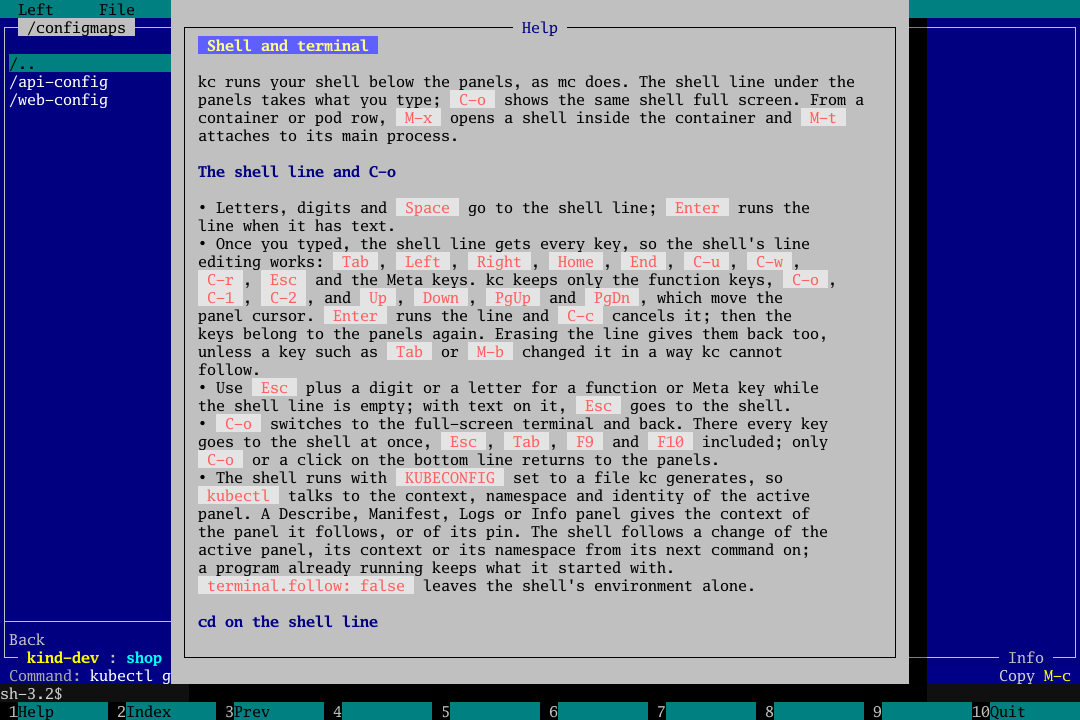
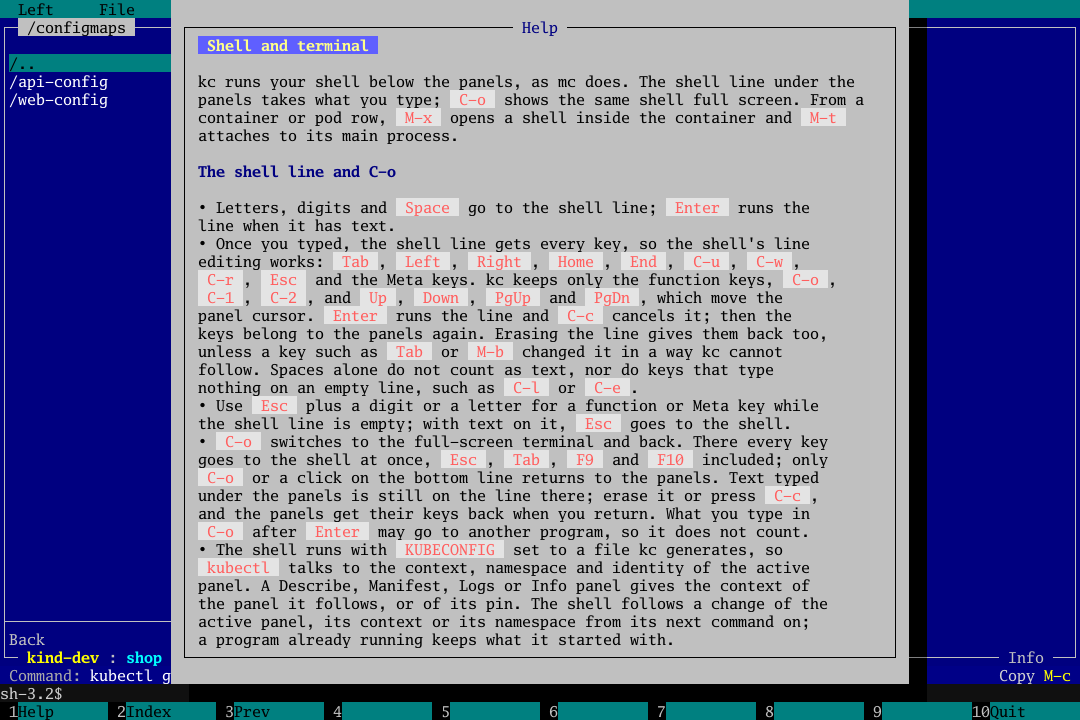
Keep a shell line that looks empty from taking the keys (#398)
Follow-up to #397 (issue #376).

## Problem

Since #397 a typed shell line takes every key except the function keys,
`C-o`, `Up`, `Down`, `PgUp` and `PgDn`. kc counts a line as typed when
it knows the line holds text, and also when it cannot follow the line
since the last `Enter` or `C-c`. Before #397 that second case only moved
`Enter`, `Left`, `Right`, `C-a`, `C-e` and `+ - *` to the shell. Now it
moves almost every key there, and two common paths reach it while the
prompt looks empty:

- On an empty line, any key that is not a panel key and not plain text
makes the line unknown. `C-l` (clear screen) and `C-e` are examples.
After that, `Tab`, `Insert`, `Home`, `End`, the Esc prefix and every
Meta key went to the shell until `Enter` or `C-c`. A lone `Space` did
the same, with only a blank on the line.
- Type `ls` at the panels, press `C-o`, erase it with `C-u` (or cancel
it with `C-c`), and press `C-o` again. In `C-o` kc marked the line
unknown on every key except `Enter` and kept the typed flag, so back at
the panels `Tab` went to the shell on an empty line. The same happened
after running a program in `C-o`, for example `Enter`, then `less`, then
`q`.

## What changed

- On an empty line, `C-a`, `C-b`, `C-d`, `C-e`, `C-f`, `C-g`, `C-k` and
`C-l` keep the line known and empty (`shellLine.key`,
`leavesLineEmpty`).
- A line of spaces counts as empty (`Terminal.HasInput`).
- In `C-o`, kc follows text typed under the panels the same way it does
[…]

Changed region(s): [[0.1833, 0.4889, 0.7639, 0.9167]]

diff --git a/internal/ui/shell_keys_test.go b/internal/ui/shell_keys_test.go
@@ -15,6 +15,7 @@ import (
 	"github.com/taigrr/bubbleterm"
 
 	"github.com/stokaro/kc/internal/models"
+	"github.com/stokaro/kc/pkg/appconfig"
 )
 
 // ptyInput records what kc writes to the shell's terminal. bubbleterm's
@@ -282,16 +283,41 @@ func TestTypedShellLineLeavesPanelKeys(t *testing.T) {
 		shell.take()
 		return app, shell
 	}
-	t.Run("Down moves the cursor", func(t *testing.T) {
+	down, up := tea.KeyPressMsg{Code: tea.KeyDown}, tea.KeyPressMsg{Code: tea.KeyUp}
+	pgDown, pgUp := tea.KeyPressMsg{Code: tea.KeyPgDown}, tea.KeyPressMsg{Code: tea.KeyPgUp}
+	for _, tc := range []struct {
+		name  string
+		setup []tea.KeyPressMsg
+		key   tea.KeyPressMsg
+	}{
+		{"Down moves the cursor", nil, down},
+		{"Up moves the cursor", []tea.KeyPressMsg{down}, up},
+		{"PgDn moves the cursor", nil, pgDown},
+		{"PgUp moves the cursor", []tea.KeyPressMsg{pgDown}, pgUp},
+	} {
+		t.Run(tc.name, func(t *testing.T) {
+			t.Parallel()
+			app, shell := typed(t)
+			pressKeys(app, tc.setup...)
+			before := app.leftPanel.currentSelectionID(t.Context())
+			pressKeys(app, tc.key)
+			if after := app.leftPanel.currentSelectionID(t.Context()); after == before {
+				t.Errorf("the cursor stayed on %q", after)
+			}
+			if got := shell.take(); got != "" {
+				t.Errorf("the shell read %q from the cursor keys", got)
+			}
+		})
+	}
+	t.Run("M-F1 opens the view options", func(t *testing.T) {
 		t.Parallel()
 		app, shell := typed(t)
-		before := app.leftPanel.currentSelectionID(t.Context())
-		pressKeys(app, tea.KeyPressMsg{Code: tea.KeyDown})
-		if after := app.leftPanel.currentSelectionID(t.Context()); after == before {
-			t.Errorf("the cursor stayed on %q", after)
+		pressKeys(app, tea.KeyPressMsg{Code: tea.KeyF1, Mod: tea.ModAlt})
+		if app.modalManager.TopName() == "" {
+			t.Error("no dialog opened")
 		}
 		if got := shell.take(); got != "" {
-			t.Errorf("the shell read %q from Down", got)
+			t.Errorf("the shell read %q from M-F1", got)
 		}
 	})
 	t.Run("F9 opens the menu bar", func(t *testing.T) {
@@ -344,5 +370,132 @@ func TestTypedShellLineLeavesPanelKeys(t *testing.T) {
 				t.Errorf("the shell read %q from Tab", got)
 			}
 		})
+	}
+}
+
+// Keys that put no text on an empty shell line leave it empty, so the
+// panels keep Tab; a blank line counts as empty too. Delete makes the line
+// count as typed: zsh with no binding types a "~" for it.
+func TestShellLineStaysEmptyAfterKeysThatAddNoText(t *testing.T) {
+	t.Parallel()
+	for _, tc := range []struct {
+		name      string
+		keys      []tea.KeyPressMsg
+		read      string
+		tabToPane bool
+	}{
+		{"C-l", []tea.KeyPressMsg{ctrlKey('l')}, "\f", true},
+		{"C-e C-k", []tea.KeyPressMsg{ctrlKey('e'), ctrlKey('k')}, "\x05\x0b", true},
+		{"Space", []tea.KeyPressMsg{{Code: tea.KeySpace, Text: " "}}, " ", true},
+		{"Delete", []tea.KeyPressMsg{{Code: tea.KeyDelete}}, "\x1b[3~", false},
+	} {
+		t.Run(tc.name, func(t *testing.T) {
+			t.Parallel()
+			app, shell := shellKeysApp(t)
+			pressKeys(app, tc.keys...)
+			if got := shell.take(); got != tc.read {
+				t.Fatalf("the shell read %q, want %q", got, tc.read)
+			}
+			active := app.activePanel
+			pressKeys(app, tabKey)
+			got := shell.take()
+			if tc.tabToPane && (app.activePanel == active || got != "") {
+				t.Errorf("Tab did not switch panels (shell read %q)", got)
+			}
+			if !tc.tabToPane && (app.activePanel != active || got != "\t") {
+				t.Errorf("Tab did not reach the shell (shell read %q)", got)
+			}
+		})
+	}
+}
+
+// Text typed under the panels is still on the shell line in the
+// full-screen terminal: C-u or C-c there empties it, and back at the
+// panels Tab switches panels again. After Enter in the full-screen
+// terminal the keys may go to another program, so they do not count as
+// typed text.
+func TestFullScreenTerminalEditsTheTypedShellLine(t *testing.T) {
+	t.Parallel()
+	for _, tc := range []struct {
+		name      string
+		input     []tea.Msg
+		line      string
+		known     bool
+		tabToPane bool
+	}{
+		{"C-u", []tea.Msg{ctrlKey('u')}, "", true, true},
+		{"C-c", []tea.Msg{ctrlKey('c')}, "", true, true},
+		{"Enter, then q to a program", []tea.Msg{tea.KeyPressMsg{Code: tea.KeyEnter}, textKey('q')}, "", false, true},
+		{"Enter, text, C-c", []tea.Msg{tea.KeyPressMsg{Code: tea.KeyEnter}, textKey('q'), ctrlKey('c')}, "", true, true},
+		{"more text", []tea.Msg{textKey('x')}, "lsx", true, false},
+		{"a paste", []tea.Msg{tea.PasteMsg{Content: " -l"}}, "ls -l", true, false},
+		{"Tab completion", []tea.Msg{tabKey}, "", false, false},
+	} {
+		t.Run(tc.name, func(t *testing.T) {
+			t.Parallel()
+			app, shell := shellKeysApp(t)
+			pressKeys(app, textKey('l'), textKey('s'), ctrlKey('o'))
+			for _, m := range tc.input {
+				app.Update(m)
+			}
+			pressKeys(app, ctrlKey('o'))
+			if app.showTerminal {
+				t.Fatal("C-o did not return to the panels")
+			}
+			if line, known := app.terminal.ShellLine(); line != tc.line || known != tc.known {
+				t.Errorf("shell line = %q, %v; want %q, %v", line, known, tc.line, tc.known)
+			}
+			shell.take()
+			active := app.activePanel
+			pressKeys(app, tabKey)
+			got := shell.take()
+			if tc.tabToPane && (app.activePanel == active || got != "") {
+				t.Errorf("Tab did not switch panels (shell read %q)", got)
+			}
+			if !tc.tabToPane && (app.activePanel != active || got != "\t") {
+				t.Errorf("Tab did not reach the shell (shell read %q)", got)
+			}
+		})
+	}
+}
+
+// An Esc pressed on an empty shell line and followed by a paste ends when
+// the shell line takes the next key, so a key after the line is erased is
+// text, not an Esc action.
+func TestShellLineKeyEndsEscPrefix(t *testing.T) {
+	t.Parallel()
+	app, shell := shellKeysApp(t)
+	app.Update(escKey) // the Esc timer is not run
+	app.Update(tea.PasteMsg{Content: "ls"})
+	msgs := pressKeys(app, textKey('x'), ctrlKey('u'), textKey('4'))
+	checkNoPanelAction(t, msgs)
+	if got := shell.take(); got != "lsx\x154" {
+		t.Errorf("the shell read %q, want %q", got, "lsx\x154")
+	}
+	if app.escPressed || app.modalManager.TopName() != "" {
+		t.Errorf("kc took a key: Esc prefix %v, dialog %q", app.escPressed, app.modalManager.TopName())
+	}
+}
+
+// The typed shell line comes before the custom command hotkeys: M-1 bound
+// to a command goes to the shell while the line holds text.
+func TestTypedShellLineComesBeforeCommandHotkeys(t *testing.T) {
+	t.Parallel()
+	app := newHotkeyApp(t, appconfig.CommandConfig{
+		Name: "Drain", Command: "echo drain", Type: appconfig.CommandTypeGlobal,
+		Hotkey: "M-1", Confirm: appconfig.CommandConfirm{Enabled: true},
+	})
+	shell := attachShell(t, app)
+	pressKeys(app, textKey('l'), textKey('s'), altKey('1', false))
+	if got := shell.take(); got != "ls\x1b1" {
+		t.Errorf("the shell read %q, want %q", got, "ls\x1b1")
+	}
+	if name := app.modalManager.TopName(); name != "" {
+		t.Errorf("the hotkey opened %q", name)
+	}
+	// With an empty line the hotkey runs.
+	pressKeys(app, ctrlKey('c'), altKey('1', false))
+	if name := app.modalManager.TopName(); name != commandConfirmModal {
+		t.Errorf("the hotkey on an empty line opened %q, want the confirmation", name)
 	}
 }

diff --git a/internal/ui/terminal.go b/internal/ui/terminal.go
@@ -131,7 +131,7 @@ func (t *Terminal) Update(msg tea.Msg) (tea.Model, tea.Cmd) {
 	//nolint:nestif // paste, mouse and key input to the PTY differ only in small steps
 	if t.terminal != nil {
 		if paste, ok := msg.(tea.PasteMsg); ok {
-			if t.showPanels {
+			if t.showPanels || t.hasTyped {
 				t.hasTyped = true
 				t.line.paste(paste.Content)
 			} else {
@@ -313,13 +313,18 @@ func cloneCursor(c *tea.Cursor) *tea.Cursor {
 func (t *Terminal) trackTyped(msg tea.Msg) {
 	if press, ok := msg.(tea.KeyPressMsg); ok {
 		switch {
-		case press.String() == "enter":
+		case press.String() == "enter", press.String() == "ctrl+c":
+			// Both end the shell line, in the full-screen terminal too.
 			t.line.reset()
-		case t.showPanels:
+			t.hasTyped = false
+			return
+		case t.showPanels || t.hasTyped:
+			// Text typed under the panels is still on the shell line in
+			// the full-screen terminal until Enter or C-c.
 			t.line.key(press)
 		default:
-			// Keys typed in the fullscreen terminal may edit the line in
-			// ways kc cannot follow, or go to another program.
+			// Otherwise a key in the full-screen terminal may go to
+			// another program (after Enter, say); kc stops following.
 			t.line.invalidate()
 		}
 	}
@@ -400,14 +405,14 @@ func (t *Terminal) IsProcessExited() bool {
 }
 
 // HasInput returns whether the terminal has non-empty input. When kc knows
-// the shell line, an erased line counts as empty; otherwise any key typed
-// since the last Enter or C-c counts.
+// the shell line, an erased or blank line counts as empty; otherwise any key
+// typed since the last Enter or C-c counts.
 func (t *Terminal) HasInput() bool {
 	if !t.hasTyped {
 		return false
 	}
 	if line, ok := t.line.current(); ok {
-		return line != ""
+		return strings.TrimSpace(line) != ""
 	}
 	return true
 }

diff --git a/internal/ui/shell_line.go b/internal/ui/shell_line.go
@@ -8,9 +8,10 @@ import (
 
 // shellLine follows what the user types on the shell line, so kc can tell
 // what Enter would run. The shell owns the real line editor; kc only knows
-// the text while every key was a plain character, Backspace or C-u. After
-// any other key (Tab completion, cursor moves, history, word edits) the
-// text is unknown until the next Enter or C-c starts a fresh line.
+// the text while every key was a plain character, Backspace, C-u or, on an
+// empty line, a key that adds no text (leavesLineEmpty). After any other
+// key (Tab completion, cursor moves, history, word edits) the text is
+// unknown until the next Enter or C-c starts a fresh line.
 type shellLine struct {
 	text    []rune
 	unknown bool
@@ -31,12 +32,27 @@ func (l *shellLine) key(k tea.KeyPressMsg) {
 		l.text = l.text[:0]
 		return
 	}
+	if len(l.text) == 0 && leavesLineEmpty(k) {
+		return
+	}
 	key := k.Key()
 	if key.Text != "" && key.Mod&^tea.ModShift == 0 {
 		l.text = append(l.text, []rune(key.Text)...)
 		return
 	}
 	l.unknown = true
+}
+
+// leavesLineEmpty reports keys that put no text on an empty line in bash
+// or zsh with no configuration: cursor moves, kill to end, clear screen,
+// EOF and abort. Delete and the modified arrows are not here: without a
+// binding zsh types a "~" for Delete, and both shells type ";5C" for C-Right.
+func leavesLineEmpty(k tea.KeyPressMsg) bool {
+	switch k.String() {
+	case "ctrl+a", "ctrl+b", "ctrl+d", "ctrl+e", "ctrl+f", "ctrl+g", "ctrl+k", "ctrl+l":
+		return true
+	}
+	return false
 }
 
 // paste records pasted text; a multi-line paste leaves the line unknown.

diff --git a/internal/ui/shell_line_test.go b/internal/ui/shell_line_test.go
@@ -49,6 +49,21 @@ func TestShellLine(t *testing.T) {
 			l.key(tea.KeyPressMsg{Code: tea.KeyEnter})
 			typeKeys(l, "cd x")
 		}, want: "cd x", wantOK: true},
+		{name: "keys that add no text keep an empty line", run: func(l *shellLine) {
+			for _, r := range "abdefgkl" {
+				l.key(tea.KeyPressMsg{Code: r, Mod: tea.ModCtrl})
+			}
+			typeKeys(l, "cd")
+		}, want: "cd", wantOK: true},
+		{name: "C-e after text", run: func(l *shellLine) {
+			typeKeys(l, "cd")
+			l.key(tea.KeyPressMsg{Code: 'e', Mod: tea.ModCtrl})
+		}},
+		{name: "Delete on an empty line", run: func(l *shellLine) { l.key(tea.KeyPressMsg{Code: tea.KeyDelete}) }},
+		{name: "C-Right on an empty line", run: func(l *shellLine) {
+			l.key(tea.KeyPressMsg{Code: tea.KeyRight, Mod: tea.ModCtrl})
+		}},
+		{name: "C-y on an empty line", run: func(l *shellLine) { l.key(tea.KeyPressMsg{Code: 'y', Mod: tea.ModCtrl}) }},
 		{name: "C-c starts a fresh line", run: func(l *shellLine) {
 			l.invalidate()
 			l.key(tea.KeyPressMsg{Code: 'c', Mod: tea.ModCtrl})

diff --git a/docs/adr/0398-follow-the-shell-line.md b/docs/adr/0398-follow-the-shell-line.md
@@ -1,0 +1,62 @@
+# 0398. kc follows the shell line closely
+
+- Status: Accepted
+- Date: 2026-11-28
+- PR: #398 (follow-up to #397, issue #376)
+- Extends: decision 3 of [0376](0376-keys-reach-the-shell.md)
+
+## Context
+
+0376 shipped with #397. Its decision 3 gives a typed shell line every key
+but a short list. kc counts the line as typed (`Terminal.HasInput`) while
+it knows the line holds text, and also while it cannot follow the line
+since the last `Enter` or `C-c`. Before 0376 the second case moved only
+`Enter`, `Left`, `Right`, `C-a`, `C-e` and `+ - *` to the shell; now it
+moves almost every key. The review of #397 found two common paths to that
+state while the prompt looks empty:
+
+- On an empty line, a key that is neither a panel key nor plain text, such
+  as `C-l` or `C-e`, made the line unknown. `Tab`, `Insert`, the Esc
+  prefix and the Meta keys then went to the shell until `Enter` or `C-c`.
+  A lone `Space` did the same, with only a blank on the line.
+- Text typed under the panels, then erased with `C-u` or canceled with
+  `C-c` in `C-o`. In `C-o` kc marked the line unknown on every key but
+  `Enter` and kept the typed flag, so back at the panels `Tab` went to the
+  shell. Running a program in `C-o` (`Enter`, `less`, `q`) did the same.
+
+## Decision
+
+1. **Keys that type nothing keep an empty line empty.** On an empty line
+   `C-a`, `C-b`, `C-d`, `C-e`, `C-f`, `C-g`, `C-k` and `C-l` keep it known
+   and empty (`leavesLineEmpty` in `internal/ui/shell_line.go`). Measured
+   on a pty with bash 3.2 and zsh 5.9 with no configuration, none of them
+   types anything. `Delete`, `S-Tab` and the modified arrows still make the
+   line unknown: both shells type `;5C` for `C-Right` and `;2B` for
+   `S-Down`, zsh types `~` for `Delete`, and many zsh setups complete on
+   `S-Tab`. After those keys the line can really hold text.
+2. **A line of spaces counts as empty.** It runs nothing, so it does not
+   take the keys.
+3. **kc follows the line in `C-o`.** Text typed under the panels stays on
+   the line in `C-o`, so kc follows the keys there as it does under the
+   panels: `C-u` empties the line, more text or a paste adds to it, `Tab`
+   makes it unknown. `Enter` and `C-c` end the line in `C-o` too and clear
+   the typed flag. Keys typed in `C-o` after `Enter` may go to another
+   program, so they make the line unknown and do not count as typed text
+   when the panels return.
+
+## Alternatives considered
+
+- **Count a line kc cannot follow as empty unless it held text before.**
+  `C-p` or `C-y` on an empty line puts text there, and `Enter` must run
+  it.
+
+## Consequences
+
+- After a key kc cannot follow (`Tab` completion, `M-b`, a cursor move)
+  the line still counts as typed until `Enter` or `C-c`, as 0376 says.
+- A shell in vi mode, or one with its own bindings for the keys of
+  decision 1, may type text for them. kc then counts the line as empty
+  until more is typed; the text stays visible on the shell line.
+- Text typed in `C-o` after `Enter` does not hold the keys at the panels:
+  `Enter` there opens the row even if that text is still on the shell
+  line.

diff --git a/internal/help/topics/shell.md b/internal/help/topics/shell.md
@@ -16,12 +16,16 @@ and `M-t` attaches to its main process.
   panel cursor. `Enter` runs the line and `C-c` cancels it; then the
   keys belong to the panels again. Erasing the line gives them back too,
   unless a key such as `Tab` or `M-b` changed it in a way kc cannot
-  follow.
+  follow. Spaces alone do not count as text, nor do keys that type
+  nothing on an empty line, such as `C-l` or `C-e`.
 - Use `Esc` plus a digit or a letter for a function or Meta key while
   the shell line is empty; with text on it, `Esc` goes to the shell.
 - `C-o` switches to the full-screen terminal and back. There every key
   goes to the shell at once, `Esc`, `Tab`, `F9` and `F10` included; only
-  `C-o` or a click on the bottom line returns to the panels.
+  `C-o` or a click on the bottom line returns to the panels. Text typed
+  under the panels is still on the line there; erase it or press `C-c`,
+  and the panels get their keys back when you return. What you type in
+  `C-o` after `Enter` may go to another program, so it does not count.
 - The shell runs with `KUBECONFIG` set to a file kc generates, so
   `kubectl` talks to the context, namespace and identity of the active
   panel. A Describe, Manifest, Logs or Info panel gives the context of

diff --git a/docs/adr/0376-keys-reach-the-shell.md b/docs/adr/0376-keys-reach-the-shell.md
@@ -1,6 +1,9 @@
 # 0376. Keys reach the shell in C-o and on a typed shell line
 
-- Status: Accepted
+- Status: Accepted; decision 3 is extended by
+  [0398](0398-follow-the-shell-line.md) (keys that type nothing keep an
+  empty shell line empty, a line of spaces counts as empty, and kc
+  follows the line in `C-o` until `Enter` or `C-c`)
 - Date: 2026-11-28
 - Issue: #376
 
